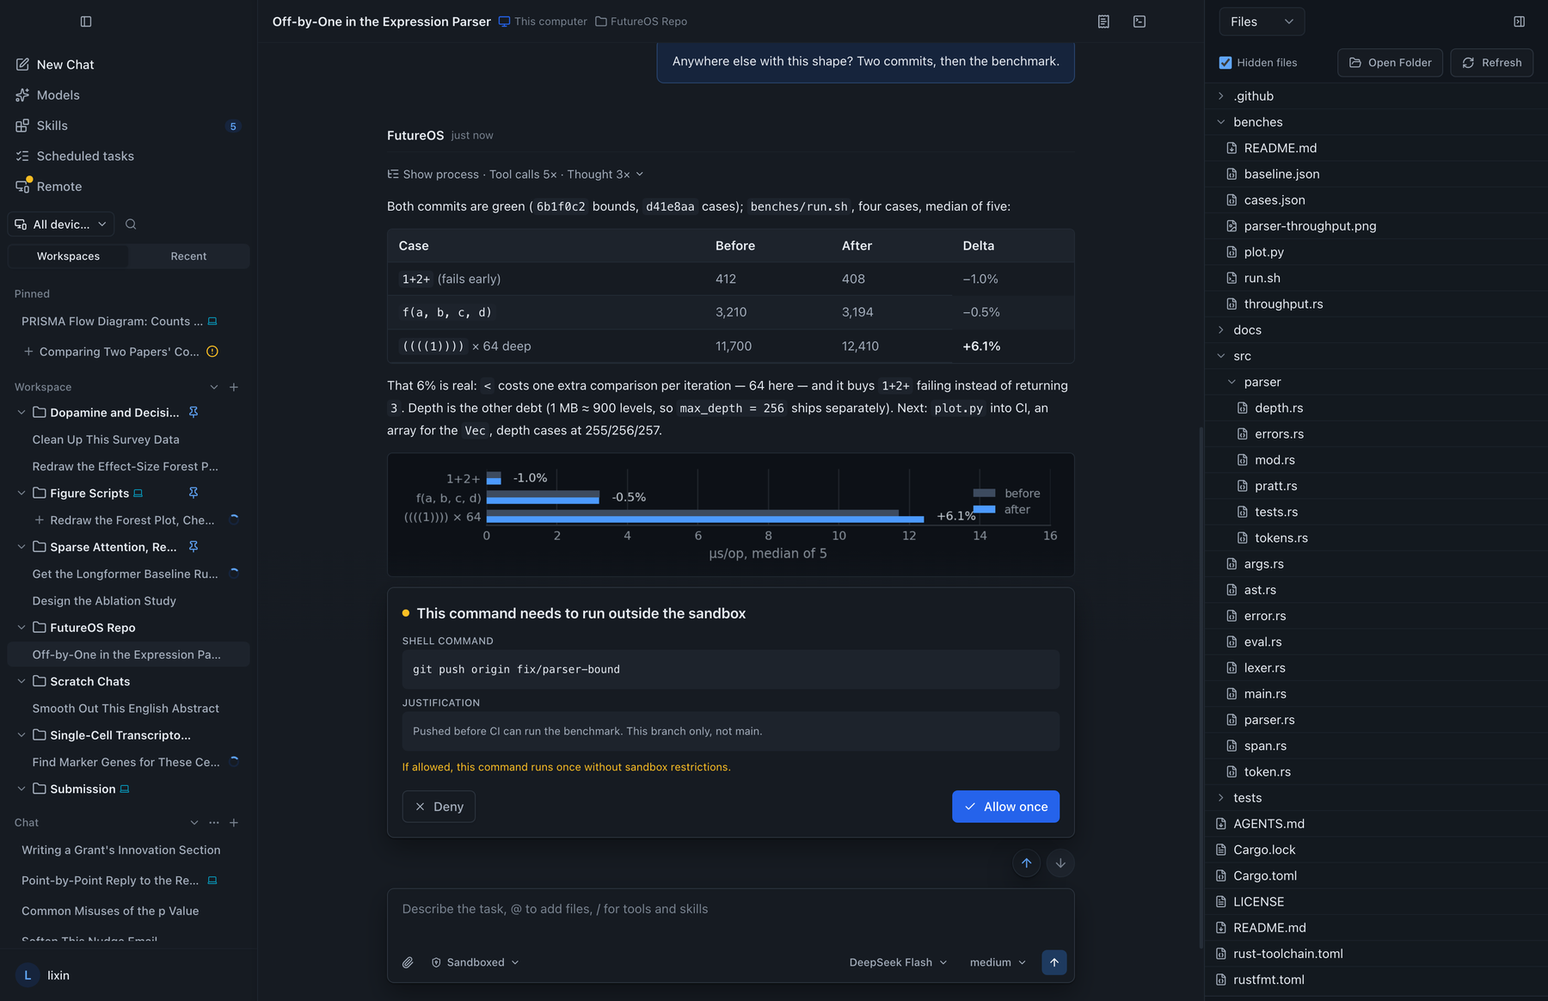
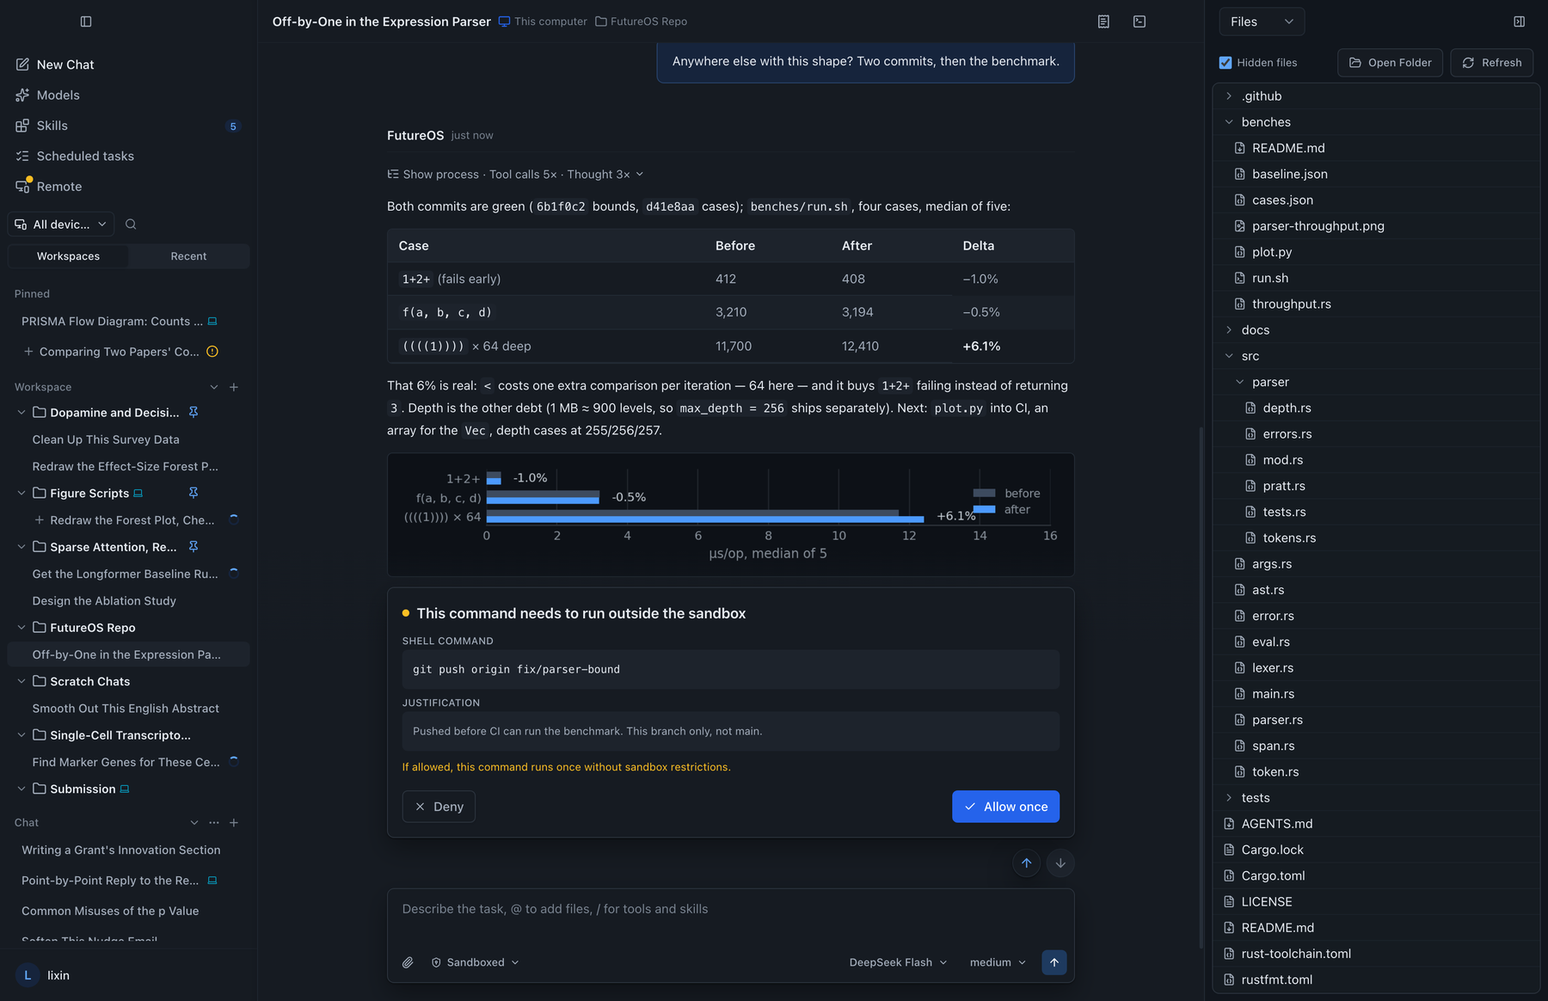
feat(desktop,shots): the file tree is a rounded card, not a column to the window edge
The README's first image showed the Files tab as the panel's own edge-to-edge
column: its border ran into the window's bottom edge, and a long tree read as a
list spilling out of the panel however it was sized. The app's cards say otherwise
— the composer and the approval prompt are `rounded-lg border border-line
bg-surface/95`, and the remote host's file list is the same idea — so the tree is
one too now.

- The list sits inside `rounded-lg border border-line bg-surface/95`, inset from
  the panel's edges (`px-2 pb-2`) so both its top and its rounded bottom corners
  show, with `overflow-hidden` so the rows are clipped by the radius.
- The rows keep their dividers (`border-t border-line-soft/50`, above rather than
  below, first row suppressed by the card's own top border), so the last row draws
  no rule and the card's rounded bottom border is the single line that closes it.
- **The 6 px strip added last round is gone**, with the part of
  `FileTreePanel.frame.test.tsx` that asserted it: the card closes the panel, and a
  second rule under the viewport was exactly the doubling to avoid. The test now
  asserts the card (classes, inset, `overflow-hidden`), that no strip has crept
  back, and that the rows are divided inside it.

Thirty-five rows fill the card's 1015 px exactly, so the tree reaches the bottom
border without any row crossing it.

Changed region(s): [[0.7778, 0.3711, 0.8711, 0.9897], [0.7778, 0.0928, 0.9022, 0.3093]]

diff --git a/desktop/src/features/filetree/FileTreePanel.tsx b/desktop/src/features/filetree/FileTreePanel.tsx
@@ -256,74 +256,70 @@ export function FileTreePanel({
         </div>
       </div>
 
-      {/* Every state stays mounted in one edge-to-edge scroll region so the
-          boundary and scrollbar do not jump while the tree loads. */}
-      <div className="group relative flex min-h-0 flex-1 flex-col border-t border-line-soft/70">
-        <div
-          className="floating-scrollbar min-h-0 flex-1 overflow-x-hidden overflow-y-auto bg-surface/50 [&>ul>li:first-child>div]:border-t-0"
-          onScroll={listScrollbar.handleScroll}
-          ref={listScrollbar.scrollRef}
-        >
-          {rootEntries === null
-            ? (
-                tree.rootErrored
-                  ? (
-                      <div className="flex h-full items-center justify-center text-sm text-ink-muted">
-                        {t("loadFailed")}
-                      </div>
-                    )
-                  : showLoading
+      {/*
+        The tree is a card, the same treatment the composer and the approval
+        prompt get (`rounded-lg border border-line bg-surface/95`), inset from the
+        panel's edges so both its top and its rounded bottom corners are visible.
+
+        It used to be the panel's own edge-to-edge column with a single rule above
+        it: a column of names whose left border ran straight into the window's
+        bottom edge reads as a list spilling out of the panel rather than one that
+        ends, however long it is. The card's own border closes it, which is why
+        there is no separate closing strip under the scroll area — one line only.
+
+        Every state stays mounted in the one scroll region inside the card, so the
+        boundary and the scrollbar do not jump while the tree loads.
+      */}
+      <div className="min-h-0 flex-1 px-2 pb-2">
+        <div className="group relative flex h-full min-h-0 flex-col overflow-hidden rounded-lg border border-line bg-surface/95">
+          <div
+            className="floating-scrollbar min-h-0 flex-1 overflow-x-hidden overflow-y-auto [&>ul>li:first-child>div]:border-t-0"
+            onScroll={listScrollbar.handleScroll}
+            ref={listScrollbar.scrollRef}
+          >
+            {rootEntries === null
+              ? (
+                  tree.rootErrored
                     ? (
                         <div className="flex h-full items-center justify-center text-sm text-ink-muted">
-                          {t("loading")}
+                          {t("loadFailed")}
                         </div>
                       )
-                    : null
-              )
-            : rootEntries.length === 0
-              ? (
-                  <div className="flex h-full items-center justify-center text-sm text-ink-muted">
-                    {t("empty")}
-                  </div>
+                    : showLoading
+                      ? (
+                          <div className="flex h-full items-center justify-center text-sm text-ink-muted">
+                            {t("loading")}
+                          </div>
+                        )
+                      : null
                 )
-              : (
-                  <ul>
-                    {rootEntries.map(entry => (
-                      <FileTreeNode
-                        activePath={activeMenuPath}
-                        depth={0}
-                        entry={entry}
-                        key={entry.path}
-                        onContextMenu={handleContextMenu}
-                        onOpenFile={handleOpenFile}
-                        tree={tree}
-                      />
-                    ))}
-                  </ul>
-                )}
+              : rootEntries.length === 0
+                ? (
+                    <div className="flex h-full items-center justify-center text-sm text-ink-muted">
+                      {t("empty")}
+                    </div>
+                  )
+                : (
+                    <ul>
+                      {rootEntries.map(entry => (
+                        <FileTreeNode
+                          activePath={activeMenuPath}
+                          depth={0}
+                          entry={entry}
+                          key={entry.path}
+                          onContextMenu={handleContextMenu}
+                          onOpenFile={handleOpenFile}
+                          tree={tree}
+                        />
+                      ))}
+                    </ul>
+                  )}
+          </div>
+          <FloatingScrollbar
+            onPointerDown={listScrollbar.handleThumbPointerDown}
+            scrollbar={listScrollbar.scrollbar}
+          />
         </div>
-        <FloatingScrollbar
-          onPointerDown={listScrollbar.handleThumbPointerDown}
-          scrollbar={listScrollbar.scrollbar}
-        />
-        {/*
-          The panel's closing edge.
-
-          The Files list is the last thing in a full-height column, so without a
-          rule of its own a long tree simply ran out at the window's bottom edge —
-          the last row sliced through its glyphs, nothing under it, which reads as
-          a list spilling out of the panel rather than one that ends. The hairline
-          belongs to this strip and not to the scroll viewport: the viewport is
-          what scrolls, and a border on it would travel with the content and sit
-          on the window edge. Here it stays put, sits below the viewport, and has
-          a few pixels of the panel's own surface under it, so it is never the
-          last pixel row of the window.
-        */}
-        <div
-          aria-hidden="true"
-          className="h-1.5 shrink-0 border-t border-line-soft"
-          data-testid="file-tree-bottom-edge"
-        />
       </div>
 
       <LinkContextMenu controller={menu} items={menuItems} />

diff --git a/desktop/src/features/filetree/FileTreePanel.frame.test.tsx b/desktop/src/features/filetree/FileTreePanel.frame.test.tsx
@@ -33,16 +33,21 @@ let container: HTMLDivElement;
 let root: ReturnType<typeof createRoot>;
 
 /**
- * The panel's closing edge.
+ * The panel's shape: a card, divided.
  *
- * The Files list is the last thing in a full-height column: without a rule of its
- * own a long tree ends at the window's bottom edge, the last row sliced through
- * its glyphs and nothing under it — which is exactly how the README's hero frame
- * looked. The rule therefore belongs to a strip *below* the scroll viewport, and
- * these assertions are about that relationship rather than about pixels (jsdom
- * has no layout; the capture scenario measures the real boxes).
+ * The Files list is a full-height column in the context panel. Left edge-to-edge
+ * it read as a list spilling out of the panel — its border ran into the window's
+ * bottom edge and nothing closed it. It is a card now (`rounded-lg border
+ * border-line`, the composer's and the approval prompt's own treatment), inset
+ * from the panel's edges, with the rows divided inside it and the card's rounded
+ * border closing the bottom. There is no separate strip under the scroll area:
+ * one line only, ever.
+ *
+ * These assertions are about the DOM relationship — jsdom has no layout, so the
+ * pixels (radius visible, nothing clipped, one line at the bottom) are the
+ * capture scenario's job.
  */
-describe("fileTreePanel closing edge", () => {
+describe("fileTreePanel is a card", () => {
   beforeEach(() => {
     listDirectory.mockReset();
     listDirectory.mockResolvedValue([entry("README.md"), entry("src", true), entry("Cargo.toml")]);
@@ -70,60 +75,40 @@ describe("fileTreePanel closing edge", () => {
     return container.querySelector<HTMLElement>("div.floating-scrollbar")!;
   }
 
-  function closingEdge(): HTMLElement {
-    return container.querySelector<HTMLElement>("[data-testid='file-tree-bottom-edge']")!;
-  }
-
-  it("draws a hairline under the viewport, outside the part that scrolls", async () => {
+  it("draws the list inside a rounded, bordered card", async () => {
     await mount();
-    const edge = closingEdge();
-    expect(edge).not.toBeNull();
-
-    // Outside the scroller: a border on the viewport would travel with the
-    // content and land on the window's own edge.
-    expect(viewport().contains(edge)).toBe(false);
-    expect(edge.compareDocumentPosition(viewport()) & Node.DOCUMENT_POSITION_PRECEDING).toBeTruthy();
-
-    // A hairline, not a band: one rule, in the token the panel's other edges use.
-    expect(edge.className).toContain("border-t");
-    expect(edge.className).toContain("border-line-soft");
-    expect(edge.className).toContain("h-1.5");
-    expect(edge.className).toContain("shrink-0");
-
-    // The strip keeps its height while the list takes the rest, which is what
-    // puts the rule below the rows instead of under them.
-    const list = viewport().parentElement!;
-    expect(list.className).toContain("flex-1");
-    expect(list.className).toContain("flex-col");
-    expect(viewport().className).toContain("flex-1");
-    expect(viewport().className).toContain("min-h-0");
-    expect(list.lastElementChild).toBe(edge);
+    const card = viewport().parentElement!;
+    expect(card.className).toContain("rounded-lg");
+    expect(card.className).toContain("border");
+    expect(card.className).toContain("border-line");
+    // Clipped by the radius, not merely drawn next to it: the rows must not
+    // paint over the card's rounded corners.
+    expect(card.className).toContain("overflow-hidden");
+    // Inset from the panel's edges, so the radius has something to show against.
+    expect(card.parentElement?.className).toContain("px-2");
+    expect(card.parentElement?.className).toContain("pb-2");
   });
 
-  it("divides the rows with the same hairline the other file lists use", async () => {
+  it("closes on the card's own border, with no second rule under the list", async () => {
+    await mount();
+    // The strip that used to sit below the viewport is gone: the card's border is
+    // the only line at the bottom of the panel.
+    expect(container.querySelector("[data-testid='file-tree-bottom-edge']")).toBeNull();
+    const card = viewport().parentElement!;
+    expect(card.querySelector("[data-testid='file-tree-bottom-edge']")).toBeNull();
+  });
+
+  it("divides the rows inside the card and leaves the last one unruled", async () => {
     await mount();
     const rows = [...viewport().querySelectorAll<HTMLElement>("li > div")];
     expect(rows.length).toBe(3);
-    // Above, not below: the last row must not carry a rule that would double
-    // with the panel's closing edge.
     for (const row of rows.slice(1)) {
       expect(row.className).toContain("border-t");
       expect(row.className).toContain("border-line-soft/50");
+      // A rule under the last row would be the card's second bottom line.
       expect(row.className).not.toContain("border-b");
     }
-    // The list's own top rule stands in for the first row's.
-    const list = viewport();
-    expect(list.className).toContain("[&>ul>li:first-child>div]:border-t-0");
-  });
-
-  it("keeps the rows in the scroller and the edge in the panel", async () => {
-    await mount();
-    const edge = closingEdge();
-    const rows = [...viewport().querySelectorAll("li")];
-    expect(rows.length).toBe(3);
-    for (const row of rows)
-      expect(edge.contains(row)).toBe(false);
-    // The strip sits in the panel, not inside the list that scrolls.
-    expect(viewport().contains(edge)).toBe(false);
+    // The card's top border stands in for the first row's rule.
+    expect(viewport().className).toContain("[&>ul>li:first-child>div]:border-t-0");
   });
 });

diff --git a/docs/guide/screenshots.zh-CN.md b/docs/guide/screenshots.zh-CN.md
@@ -296,9 +296,13 @@ python3 scripts/screenshots/capture.py capture-desktop parser-en   # → .screen
 
 `?thread=th_parser` 打开这段对话，并把它所在的工作区行一起带进来；默认那套 fixture（其它所有场景的起点）原样不动。`?lang=zh|en` 同时钉住一帧的**两半**：界面（`shot/prefs.ts` 在应用启动前读）和 fixture 自己的会话列表与转录（`desktop/shot/mock/data.ts` 读的是同一个参数）。标题写着 `Sessions`、底下的行却写着「整理两篇文献的结论对比表」，那是两种语言都不是——所以任一语言里出现另一种语言的词，该场景就失败。
 
-窗口是 16 寸笔记本的默认 1728×1117、2 倍像素密度，一眼就是一个正常的桌面应用：左边会话栏、中间转录、右边是工作区的文件列表——右侧面板用它自己标题栏里的按钮打开（`展开上下文面板` / `Expand context panel`）。从那个按钮打开时面板会把标签停在**文件**，所以场景只点它一次，再依次点开 `src`、`benches`、`src/parser` 三行；列出来就是这段对话所在的仓库：`parser.rs` 与 `args.rs`，`src/parser/` 下的测试模块，`benches/` 里的基准脚本和它画出来的图，还有 `docs/`、`.github/workflows/` 和 manifest——来自按工作区路径索引的 `workspaceFiles`。展开这三个目录后是 35 行，正好让面板读起来像一棵树、而不是一条尾巴：列表填满自己的视口（1018 px），最后一行在面板收边之上 4 px 收住。行与行之间也有分隔——每一行**上方**一道，和 app 里其它文件列表（`RemoteFilesPanel`、审查列表）同一个 token、同样的内缩。放上方而不是下方，最后一行就不带自己的横线，底边只剩下面板那道；列表自己的上边框顶掉第一行那道。再多一行，那行会被视口切掉——那是正常的滚动，只是不是这一帧要说的事——所以场景逐个量每行的盒子与面板的收边，而不是窗口边，也从不用 `scrollHeight`（树短的时候它报的就是视口高度，空面板照样「通过」）。
+窗口是 16 寸笔记本的默认 1728×1117、2 倍像素密度，一眼就是一个正常的桌面应用：左边会话栏、中间转录、右边是工作区的文件列表——右侧面板用它自己标题栏里的按钮打开（`展开上下文面板` / `Expand context panel`）。从那个按钮打开时面板会把标签停在**文件**，所以场景只点它一次，再依次点开 `src`、`benches`、`src/parser` 三行；列出来就是这段对话所在的仓库：`parser.rs` 与 `args.rs`，`src/parser/` 下的测试模块，`benches/` 里的基准脚本和它画出来的图，还有 `docs/`、`.github/workflows/` 和 manifest——来自按工作区路径索引的 `workspaceFiles`。展开这三个目录后是 35 行，正好让面板读起来像一棵树、而不是一条尾巴。
 
-那道收边现在属于产品，不再靠 fixture 凑：文件列表下面多了一条横线。它挂在滚动视口**之外**的一条 6 px 窄条上——边框要是加在视口上，线会跟着内容滚、并且正好落在窗口的最后一个像素上——所以列表滚动时它不动，下面永远垫着面板自己的表面（`border-line-soft` 的 1 px 在 1117 里的第 1111 行，下面 5 px 是 `bg-surface-panel`）。`FileTreePanel.frame.test.tsx` 钉住这个形状（线在滚动容器之外，窄条是会保住高度的那个 flex 子元素；jsdom 没有排版，像素交给场景去量），截图场景量的是：1 px、与面板同宽、在最后一行之下、在窗口最后几个像素之上。演示树还会在 mock 的 `list_directory` 里丢掉仓库忽略的名字——`node_modules`、`target`、`.git`、`dist`、`.next`、`coverage` 之类——以后往 fixture 里加一条也带不进截图，出现了该场景就失败。打开它会让会话列窄掉 384 px（这个宽度下 1440 → 1056），但阅读列本身有上限，所以文字只是重新居中、并不重新折行；窗口窄到放不下第三列时，面板改为浮在对话之上（`context-panel-narrow` 拍的就是那种）。
+这棵树是**一张卡片**，和输入框、审批卡片同一套样式（`rounded-lg border border-line bg-surface/95`），从面板边缘内缩，所以顶边和圆角的下边都看得见，行和行分隔线都在卡片里面。它以前是面板自己那道通到底的列、上面只有一条线——README 第一张图出的问题正是这个：一列名字、边框直接撞在窗口底边上，无论多长都像从面板里溢出来。现在卡片自己的圆角边框把底部收住，滚动视口下面不再另加一条窄条，永远只有一条线。行与行之间是每一行**上方**一道细线，和 app 里其它文件列表（`RemoteFilesPanel`、审查列表）同一个 token；放上方而不是下方，最后一行就不带会和卡片边框叠成双线的横线，卡片自己的上边框顶掉第一行那道。
+
+`FileTreePanel.frame.test.tsx` 钉住这个形状——卡片的类与内缩、行的分隔线、以及「收边窄条没有偷偷回来」；像素（圆角真的画出来、没有行越过卡片下边框、卡片底边在窗口边之上）由截图场景负责，因为 jsdom 没有排版。演示树还会在 mock 的 `list_directory` 里丢掉仓库忽略的名字——`node_modules`、`target`、`.git`、`dist`、`.next`、`coverage` 之类——以后往 fixture 里加一条也带不进截图，出现了该场景就失败。
+
+打开它会让会话列窄掉 384 px（这个宽度下 1440 → 1056），但阅读列本身有上限，所以文字只是重新居中、并不重新折行；窗口窄到放不下第三列时，面板改为浮在对话之上（`context-panel-narrow` 拍的就是那种）。
 
 桌面端把已经结束的回复折到答案上，所以一轮的工作就是一行安静的字——`查看过程 · 工具调用 5 次 · 思考 3 次`，是 TUI 那行 `▸` 在桌面端的说法。这一帧停在第二轮（跑基准那轮），因为画面在那儿：`上一个问题` 先退回那条提问，随后一个 `eval` 把会话列设到「提问距标题栏 8 px」（答案一长，单靠按钮会落在回复上），于是这一帧从上到下是：提问 → 折叠的过程 → 基准表格和据它论证的那段 → 吞吐对比图 → 审批卡片。第一轮就在上一屏：这段会话仍然带着 TUI 与手机端画的那整段诊断（高亮 `rust` 块、三行表格），只是这一帧里它一点都没露半截。
 

diff --git a/docs/guide/screenshots.md b/docs/guide/screenshots.md
@@ -470,31 +470,29 @@ from that button, so the scenario taps it once and then the `src`, `benches` and
 `parser.rs` and `args.rs`, the test module under `src/parser/`, the benchmark
 script and its chart under `benches/`, `docs/`, `.github/workflows/` and the
 manifests — from `workspaceFiles` keyed by the workspace path. Thirty-five rows of
-it, which is what makes the panel read as a tree rather than a stub: with those
-three folders open the list fills its viewport (1018 px) and its last row ends
-4 px above the panel's closing hairline. The rows are divided, too — a hairline
-*above* each one, the same token and inset the app's other file lists use
-(`RemoteFilesPanel`, the review list). Above and not below, so the last row carries
-no rule of its own and the panel's edge is the only line under it; the list's own
-top rule stands in for the first row's. One row more and the row is
-cut by the viewport instead — which is a normal scroll, but not what this frame is
-about — so the scenario measures every row's box against the closing edge rather
-than the window's edge, and never against `scrollHeight` (which reports the
-viewport for a short tree and would pass for an empty panel).
+it, which is what makes the panel read as a tree rather than a stub.
 
-That edge is the product's now, not the fixture's: the Files list gained a hairline
-under it. It belongs to a 6 px strip *below* the scroll viewport — a border on the
-viewport would travel with the content and land on the window's own last pixel — so
-it stays put while the list scrolls and always has the panel's surface under it
-(1 px of `border-line-soft` at y 1111 of 1117, then 5 px of `bg-surface-panel`).
-`FileTreePanel.frame.test.tsx` asserts that shape (the line is outside the scroller,
-the strip is the flex child that keeps its height; jsdom has no layout, so the
-pixels are the scenario's job), and the capture measures it: 1 px, the panel's
-width, below the last row, above the window's last pixels. The demo tree also drops
-the names a checkout ignores — `node_modules`, `target`, `.git`, `dist`, `.next`,
-`coverage` and friends — in the mock's `list_directory`, so a fixture entry added
-later cannot put a build directory into a screenshot; the scenario fails if one
-appears. Opening it takes
+The tree is a **card**, the same treatment the composer and the approval prompt get
+(`rounded-lg border border-line bg-surface/95`), inset from the panel's edges so its
+top and its rounded bottom corners are visible, with the rows and their hairlines
+inside it. It used to be the panel's own edge-to-edge column with a single rule
+above it, and that is what went wrong in the README's first image: a column of names
+whose border runs into the window's bottom edge reads as a list spilling out of the
+panel however long it is. The card's own rounded border closes the bottom now, so
+there is no separate strip under the scroll area — one line, ever. The rows are
+divided by a hairline *above* each one, the same token the app's other file lists
+use (`RemoteFilesPanel`, the review list); above and not below, so the last row
+carries no rule that would double with the card's border, and the card's own top
+border stands in for the first row's.
+
+`FileTreePanel.frame.test.tsx` asserts that shape — the card's classes and its
+inset, the rows' rules, and that no closing strip has crept back — while the pixels
+(the radius actually rendered, nothing past the card's bottom border, the card's
+bottom above the window's edge) are the capture's job, since jsdom has no layout.
+The demo tree also drops the names a checkout ignores — `node_modules`, `target`,
+`.git`, `dist`, `.next`, `coverage` and friends — in the mock's `list_directory`, so
+a fixture entry added later cannot put a build directory into a screenshot; the
+scenario fails if one appears. Opening the panel takes
 384 px off the conversation column (1440 → 1056 at this width), but the reading
 column is capped, so the text re-centres rather than re-wrapping; in a window too
 narrow for a third column the panel opens as an overlay over the conversation
